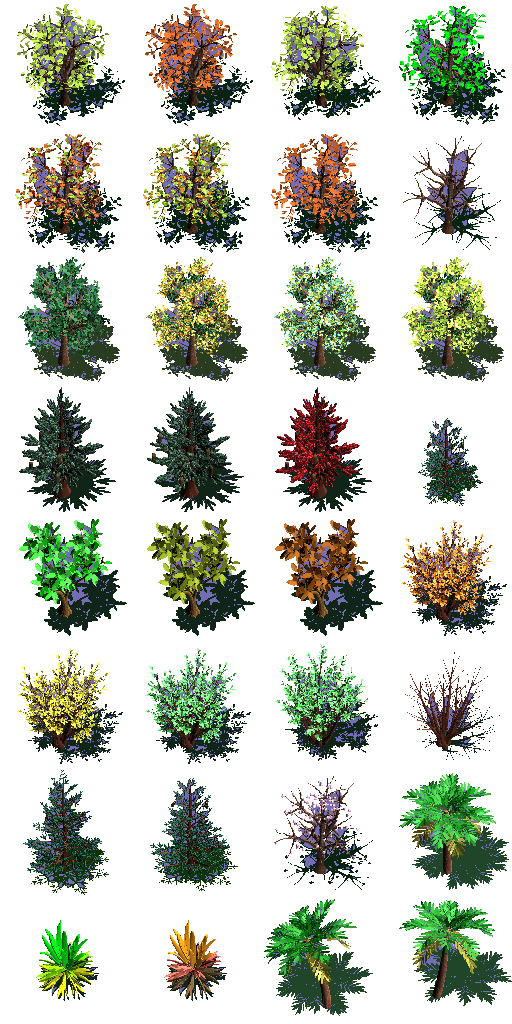
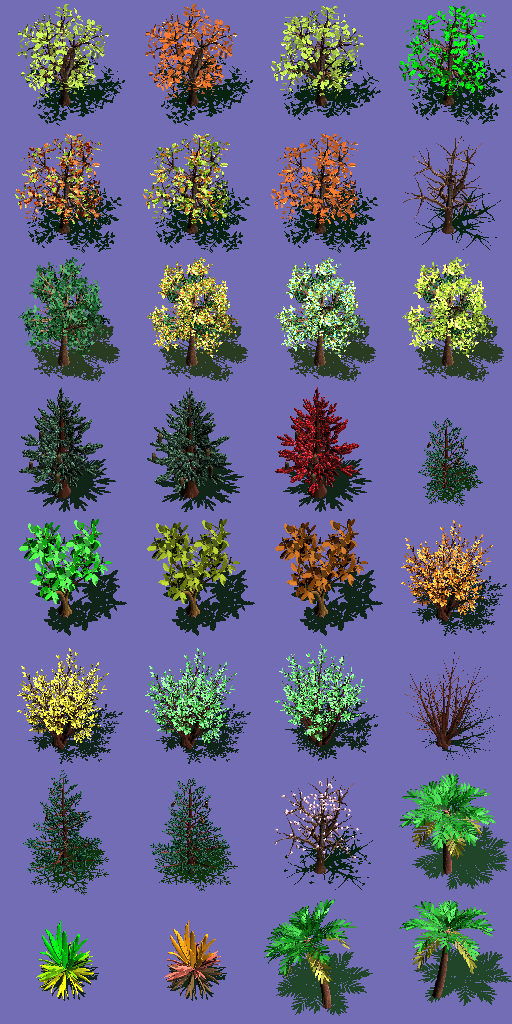
small changes

diff --git a/2/2.2.py b/2/2.2.py
@@ -34,7 +34,8 @@ points = 0
 def random_tree():
     return (randint(0, 31), (randint(0, 450), randint(0, 400)))
 
-trees_tmp = pygame.image.load("mdb/trees.png").convert_alpha()
+trees_tmp = pygame.image.load("mdb/trees.png")
+trees_tmp.set_colorkey((115, 109, 181))
 trees = list()
 for i in range(4):
     for j in range(8):
